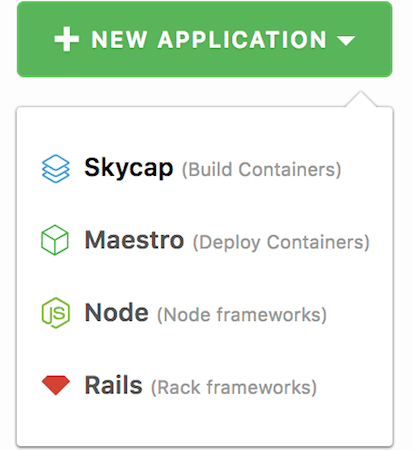
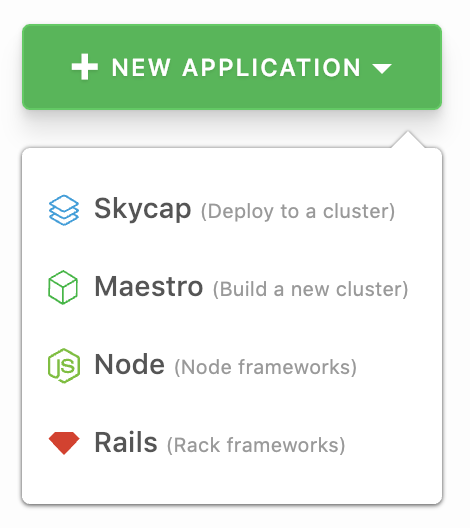
Product split changes

diff --git a/_skycap/quickstarts/using_formations.md b/_skycap/quickstarts/using_formations.md
@@ -20,7 +20,7 @@ Before you start, please check you have the following:
 <div class="notice"><p>
 In this guide we are using a <a href="https://github.com/cloud66-samples/helloworld">simple project</a> that we've supplied on Github. It's a good idea to use this project in your initial Skycap set up so that the steps below correspond to your application.</p></div>
 
-* **A Working Kubernetes Cluster** &mdash; You can use [Cloud 66 Maestro](/maestro/quickstarts/getting_started.html) to create a cluster or use a cloud provider service like [Google GKE](https://cloud.google.com/kubernetes-engine), [AWS Fargate](https://aws.amazon.com/fargate) or [Microsoft Azure AKS](https://azure.microsoft.com/en-us/services/container-service), or [set it up yourself](https://kubernetes.io/docs/getting-started-guides/scratch).
+* **A Working Kubernetes Cluster** &mdash; You can use [Cloud 66 Maestro](/maestro/quickstarts/getting_started_with_clusters.html) to create a blank cluster or use a cloud provider service like [Google GKE](https://cloud.google.com/kubernetes-engine), [AWS Fargate](https://aws.amazon.com/fargate) or [Microsoft Azure AKS](https://azure.microsoft.com/en-us/services/container-service), or [set it up yourself](https://kubernetes.io/docs/getting-started-guides/scratch).
 For this example we are going to use [Minikube](https://github.com/kubernetes/minikube)
         
 * **A `kubectl` client** on your development machine or a server that is configured to communicate with your Kubernetes cluster.
@@ -33,18 +33,17 @@ Before getting started, let's get ourselves familiar with 3 main concepts of the
 
 ### Formation
 
-Formation is a "deployment destination" for your application. This could be a dedicated Kubernetes cluster or a shared one. A Formation allows you to manage the collection of Kubernetes configuration templates or **Stencils** that define an application and its environment.
+A Formation is a "deployment destination" for your application. This could be a dedicated Kubernetes cluster or a shared one. A Formation allows you to manage the collection of Kubernetes configuration templates or **Stencils** that define an application and its environment.
 
 <div class="notice"><p>You can find more detailed information about Formations <a href="/skycap/the-basics/formations-stencils-and-snapshots.html#what-is-a-formation">here</a>.</p></div>
 
 ### Stencils
 
-A very good practice when configuring Kubernetes clusters is to put everything in configuration files rather than applying them directly via the command line. 
+A good practice when configuring Kubernetes clusters is to put everything in configuration files rather than applying changes directly via the command line. 
 
 Stencils are essentially dynamic Kubernetes configuration templates. They can contain one or many Kubernetes configuration items like `Services`, `Deployments`, `ConfigMaps` or others.
 
 Stencils can contain dynamic **placeholders** that are populated with the right values before they are applied to a Kubernetes cluster. This is called **Rendering** and it allows you to more easily re-use common templates.
-
 
 <div class="notice"><p>You can find more detailed information about Stencils <a href="/skycap/the-basics/formations-stencils-and-snapshots.html#what-is-a-stencil">here</a>.</p></div>
 
@@ -56,28 +55,15 @@ All of these components (including all configurations) are then stored in a priv
 
 <div class="notice"><p>You can find more detailed information about Snapshots <a href="/skycap/the-basics/formations-stencils-and-snapshots.html#what-is-a-snapshot">here</a>.</p></div>
 
-
 ## Getting Started
 
 ### Create your first Formation
 
-After the final step of [setting up an application](/skycap/quickstarts/getting_started.html) on Skycap, click the *Setup Deployment* button and select *Deploy with Formations*.
+After the final step of [setting up your application](/skycap/quickstarts/getting_started.html) on Skycap, click the *New Formation* button and give your Formation a name. 
 
-<img src="/assets/skycap/formation_step_1_NEW.gif"/>
+You can also add a few tags to it (these help to identify components later on). If you're using our sample project, calling your Formation "Hello World" is a good idea.
 
-#### Private Beta Notice
-
-<div class="notice"><p>If you can't see the selection form, you can contact Cloud 66 Support as Skycap Formation is currently a private beta feature. We will enable this feature for you.</p></div>
-
-Formations rely on "base templates" that are pulled from a git repository. Because your account doesn't have base template repository yet, you will need to add one now. We have supplied a set of [sample templates](https://github.com/cloud66/skycap-stencils/) on GitHub that you can use in this tutorial. 
-
-Click on the "New Formation" button and you will be promoted to add a template repo. You need to supply the git URL, the branch and a name for the template repo.
-
-<img alt="Template repo setup process" src="/assets/skycap/template_repo_ani.gif"/>
-
-Once your the template repo has been added, click on the *New Formation* button again. Enter a name for your Formation and add a few tags to it (these help to identify components later on). If you're using our sample project, calling your Formation "Hello World" is a good idea. Your Formation will automatically use the repo you connected in the previous step.
-
-<img src="/assets/skycap/formation_step_2_NEW.gif"/>
+<img src="/assets/skycap/skycap-new-formations-1.gif"/>
 
 ### Add your first Stencil
 
@@ -85,46 +71,28 @@ Once your the template repo has been added, click on the *New Formation* button 
 
 Now that you have a Formation defined you can begin populating it with **Stencils**. 
 
-To do this, click on the *Add Stencils* button in the "Getting Started with Formations" panel. 
+To do this, click on the *Add Stencils* button in the **Getting Started with Formations** panel. 
 
 A `namespace` is usually the first thing configured for a new Formation. To create yours, choose *setup.yml* from the menu that automatically opens on the next page.
 
-<img src="/assets/skycap/formation_step_3_NEW.gif"/>
+<img src="/assets/skycap/skycap-formations-add-stencil.gif"/>
 
 This creates a Stencil for a namespace configuration file for you. Let's look at it in a bit more detail:
 
 <pre class="prettyprint">
-# this sets up the cluster with namepsace etc
-# should be the first yaml to run
 apiVersion: v1
 kind: Namespace
 metadata:
   name: ${formation}
   annotations:
     cloud66.com/formation-uuid: ${formation["uuid"]}
-    cloud66.com/stencil-uuid: ${stencil["uuid"]}
----
-apiVersion: v1
-kind: Secret
-metadata:
-  namespace: ${formation}
-  name: cloud66-registry-pull-secret
-  annotations:
-    cloud66.com/formation-uuid: ${formation["uuid"]}
-    cloud66.com/stencil-uuid: ${stencil["uuid"]}
-data:
-  .dockerconfigjson: ${registry_credentials()}
-type: kubernetes.io/dockerconfigjson
 </pre>
 
+As you can see, the default `setup.yml` Stencil (from our sample repository) sets up the minimum required scaffolding for deploying an application to Kubernetes - a namespace.
 
-As you can see, the default `setup.yml` Stencil (from our sample repository) has two sections: the first sets up the namespace, and the second adds the credentials for a Docker repository to the namespace.
-
-You've probably already noticed the dynamic stencil placeholders like `${formation}`. These offer a simple way to replace some values in your configuration files at the time it "renders". 
+You've probably already noticed the dynamic stencil placeholder `${formation}`. Placeholder offer a simple way to replace some values in your configuration files at the time it "renders". 
 
 For example,`${formation}` gets replaced with a Kubernetes friendly version of your Formation's name. So if your Formation is called "My Sample Formation", the value of `${formation}` will be `my-sample-formation` when it renders (we will get to how to render the Stencils later).
-
-Looking at the `setup.yml` Stencil again, you see that the `${function(arguments)}` syntax is used in several places. For example `${formation("uuid")}` will be replaced by the unique identifier of the Formation that contains this Stencil and `${registry_credentials()}` will be replaced with docker registry credentials.
 
 You can see a full list of all Stencil functions [here](/skycap/references/stencil_placeholders.html).
 
@@ -192,15 +160,14 @@ Then, invoke the service using `minikube service` command, and a browser window 
 
 Congratulations! You just deployed your first Formation to a Kubernetes cluster.
 
-
 ## What's next?
 
 Formations are an extremely powerful tool to manage the flow of configuration files into Kubernetes. Here are some of their features:
 	
 * [Formations](/skycap/the-basics/formations-stencils-and-snapshots.html#what-is-a-formation) as an infrastucture time machine
-* Fine grained access control and permissions for each Formation and every Stencil for your team members
-* Ability to setup private [Base Templates](/skycap/the-basics/formations-stencils-and-snapshots.html#what-is-a-base-template) for your team
-* Powerful and very simple [Stencil placeholders syntax](/skycap/references/stencil_placeholders.html)
-* Bulk import of your environment variables and secrets into Stencils
+* Fine grained [access control and permissions](/skycap/tutorials/setting-up-access-control.html) for each Formation and every Stencil for your team members
+* The ability to setup private [Base Templates](/skycap/the-basics/formations-stencils-and-snapshots.html#what-is-a-base-template) for your team
+* The powerful [Stencil placeholders syntax](/skycap/references/stencil_placeholders.html)
+* Bulk import of your [environment variables](/skycap/tutorials/setting-environment-variables.html) and secrets into Stencils
 	
 

diff --git a/_maestro/quickstarts/getting_started.md b/_maestro/quickstarts/getting_started.md
@@ -25,33 +25,80 @@ Before you start, please check you have the following:
 </p></div>
 
 
-## Build your containers
+## Choosing application type
 
-This guide assumes that you already have container images that you want to deploy. If you need to learn how to build images or pull existing images from a repo please read <a href="/skycap/quickstarts/getting_started.html">Getting started with Skycap</a>. 
+New users will be show the product selection wizard. For Maestro, choose "I have a containerized application" and then "I need to build a Kubernetes cluster" (*Try Maestro*). 
 
-However we suggest you use a **different sample application** for Maestro than you did for Skycap (see the blue box above for details).
+<div class="Grid Grid--gutters Grid--full large-Grid--fit med-Grid--guttersXl">
+    <div class="Grid-cell">
+        <h4>Step 1</h4>
+        <img src="/assets/product_choice_1.png" alt="Product choice wizard - step 1">
+    </div>
+    <div class="Grid-cell">
+        <h4>Step 2</h4>
+        <img src="/assets/product_choice_2.png" alt="Product choice wizard - step 2">
+    </div>
+</div>
 
-## Set up your deployment
+If you're already using Cloud 66 just click *New Application &rarr; Maestro (Build a new cluster)* button on the dashboard.
 
-To get started with your deployment: 
+<img src="/assets/skycap/skycap_new_dropdown_update.png" alt="Start a new Skycap build pipeline" width="200">
 
-1. Open to your applications overview page and click *Set up a Deployment*. 
-2. Click on *Deploy with Maestro* in the Deployment Setup panel that appears:
-3. Choose any of the standard [application environments](/maestro/how-to-guides/deployment/application-environments.html)
+## Adding services
 
-<img alt="Setting up a deployment in Maestro" src="/assets/maestro/maestro-getting-started-1.gif">
+The first step is to give your application a **name**. This will be used to label your application throughout the Cloud 66 dashboard.
 
-## Configure your services
+Next, you need to add at least one **service**. To your application. If you're using our demo application, you will need to add a single service called `demo-app` by pulling the code from this [public repo](https://github.com/cloud66/maestro-demo.git).
+
+To do this: 
+
+1. Copy the *Clone or download* link from Github 
+2. Paste it into the **Git Repo URL** field
+3. Type *master* into the **branch** field
+4. Click *Go* to fetch and analyze the code
+
+<img src="/assets/maestro/maestro-adding-services.gif" alt="Adding services to a Maestro application">
+
+
+## Specifying the source of images
+
+<img src="/assets/skycap/skycap_service_image.png" alt="Specifying the source of your service" style="float:right; margin-top: 0.25em">
+
+The *Where is your service image?* dropdown provides you with three options to specify the source of your services.
+
+* **Build Image from a GitHub repo** &mdash; This is the easiest way to add services if your code is hosted on GitHub. You'll need to link your GitHub account with Cloud 66 before you can take advantage of this. Just click the *Setup access to your GitHub projects.* link. (This is the option you should pick if you're using our "hello world" app)
+    
+* **Build image from any Git Repo** &mdash; Use this option if you have a private git repo or you're using another git provider such as BitBucket. You can also use this if you don't want to link Cloud 66 to your GitHub account. You will need to add your Cloud 66 public key if your repo is private. You'll be prompted to do this if it's required.
+    
+* **It's in a Docker image repository** &mdash; Use this to add pre-built images to a project. You can use a service like DockerHub or your own private image repo. If you're using a private repository you'll be prompted to add the necessary login credentials. 
+
+
+## Building application images
+
+Before you can deploy your application, you need to build your services into container images. To do this, click the green *Build Application Images* button. 
+
+You can now watch the build log as Maestro fetches your application code and builds it into Docker images, ready for deployment.
+
+<img src="/assets/maestro/maestro-build-log.png" alt="Maestro image building log">
+
+
+## Preparing for deployment
+
+To start the deployment process click the *Set up a Deployment* button from the **Application Overview** page. You will then need to configure various aspects of the application to ensure it's deployed properly. This includes:
+
+* Network configuration
+* Data source(s)
+* Target server(s)
+
+### Container network configuration
 
 Our sample application is composed of a single Python service that we've named *demo-app*. This is a web app so we need to configure the service to handle web traffic.
 
 At the moment we can see that **0 services** are connected to the Internet. To change this we click on the plug icon to open the network setting panel.
 
-### Container network configuration
-
 The *demo-app* service will run inside a container, so we need to configure that container to respond to web traffic. A standard web server listens on port 80 for HTTP traffic, so we're going to use that as our *Public Internet Port*
 
-The *demo-app* service listens to port 5000 so we need set the *Container Port* to **5000** to the *Public Internet Port* to **80**:
+The *demo-app* service listens to port 5000 so we need set the *Container Port* to `5000` to the *Public Internet Port* to `80`:
 
 <img alt="Configuring container networking in Maestro" src="/assets/maestro/maestro-getting-started-2.gif">
 
@@ -67,7 +114,7 @@ The application also needs a redis data store, so we should add one now:
 
 Our application is now configured and ready to deploy.
 
-## Choose a cloud provider
+### Choose a cloud provider
 
 Now we need to choose a cloud provider as a target for the deployment. You can do this using the dropdowns in the right-hand column.
 
@@ -77,7 +124,7 @@ For this demo we'll use *DigitalOcean* and deploy the application to the *London
 
 You can also deploy to your own servers. First you need to <a href="/maestro/how-to-guides/deployment/registered-servers.html">add them as registered servers</a>.
 
-## Configure server size
+### Configure server size
 
 The server size can be set by clicking on the cog at the top right the server.
 

diff --git a/_skycap/quickstarts/getting_started.md b/_skycap/quickstarts/getting_started.md
@@ -32,30 +32,46 @@ Build pipelines are composed of all the individual ([containerized](/skycap/the-
 * **Pre-built Container Images** &mdash; These can be hosted in any public image repo like Dockerhub or your own private repo. 
 
 
-## Lets Get Started
+## Choosing application type
 
-New users should click *start trial* for the Skycap product. If you're already using Cloud 66 just click *New Application &rarr; Skycap (Build containers)* button on the dashboard.
+New users will be show the product selection wizard. For Skycap, choose "I have a containerized application" and then "I already have a Kubernetes cluster" (*Try Skycap*). 
 
 <div class="Grid Grid--gutters Grid--full large-Grid--fit med-Grid--guttersXl">
     <div class="Grid-cell">
-        <h4>New users</h4>
-        <img src="/assets/skycap/skycap_blankslate.png" alt="Your first Skycap build pipeline">
+        <h4>Step 1</h4>
+        <img src="/assets/product_choice_1.png" alt="Product choice wizard - step 1">
     </div>
     <div class="Grid-cell">
-        <h4>Existing users</h4>
-        <img src="/assets/skycap/skycap_new_dropdown_update.png" alt="Start a new Skycap build pipeline" width="170">
+        <h4>Step 2</h4>
+        <img src="/assets/product_choice_2.png" alt="Product choice wizard - step 2">
     </div>
 </div>
 
+If you're already using Cloud 66 just click *New Application &rarr; Skycap (Deploy to a cluster)* button on the dashboard.
+
+<img src="/assets/skycap/skycap_new_dropdown_update.png" alt="Start a new Skycap build pipeline" width="200">
+
 ## Adding Services
 
-* **Give your application a Name** &mdash; This will be used to label your application throughout the Cloud 66 dashboard.
-          
-* **Adding Services** &mdash; You can add as many services as required by clicking the green *+ Add Service* button at the bottom of the page.
+The first step is to give your application a **name**. This will be used to label your application throughout the Cloud 66 dashboard.
+
+Next, you need to add at least one **service**. To your application. If you're using our demo application, you will need to add a single service called "hello-world" by pulling the code from this [public repo](https://github.com/cloud66-samples/helloworld).
+
+To do this: 
+
+1. Copy the *Clone or download* link from Github 
+2. Paste it into the **Git Repo URL** field
+3. Type *master* into the **branch** field
+4. Click *Go* to fetch and analyze the code
 
 <img src="/assets/skycap/skycap_add_services_ani_update.gif" alt="Adding services to a Skycap build pipeline">
 
-## Specifying the source of your images
+
+You can add as many other services as required by clicking the green *+ Add Service* button at the bottom of the page. You will need to supply a source for each service you add (more info on this [below](#specifying-the-source-of-images)).
+
+Once you have added all your services, click the green *Next* button.
+
+## Specifying the source of images
 
 <img src="/assets/skycap/skycap_service_image.png" alt="Specifying the source of your service" style="float:right; margin-top: 0.25em">
 
@@ -67,9 +83,9 @@ The *Where is your service image?* dropdown provides you with three options to s
     
 * **It's in a Docker image repository** &mdash; Use this to add pre-built images to a project. You can use a service like DockerHub or your own private image repo. If you're using a private repository you'll be prompted to add the necessary login credentials. 
  
-Once you've finished adding your services click the "Create Snapshot" button.
-
 ## Snapshots and building images
+
+After you have added your services you will be taken to your **Application Overview** page. To start the build process you should click the green *Take Snapshot* button at the bottom of the main panel.
 
 A snapshot captures all the components of your application including application images, environment variables and configuration items, in preparation for deployment. 
 
@@ -84,16 +100,12 @@ During the build process you can view the status of each individual build. You c
 
 ## Deploying your application
 
-Once you've built your images, you're ready to deploy your app. There are two ways to do this:
-
-1. Using Maestro - Cloud 66's integrated container management service > [Get started with Maestro](/maestro/quickstarts/getting_started.html).
-
-2. Using your own (existing) Kubernetes cluster > [Get started with Skycap Formations](/skycap/quickstarts/using_formations.html)
+Once you've built your images, you're ready to deploy your application using Skycap's **Formations** feature. To do this, you should follow our guide: [Get started with Skycap Formations](/skycap/quickstarts/using_formations.html)
  
 ## What's next?
 
 Now that you have your first application defined, you can learn how to make that application live:
 
-* *Either* [create your first Formation](/skycap/quickstarts/using_formations.html) and use it to [deploy your application](/skycap/quickstarts/using_formations.html#deploying-it-all-to-your-cluster) to a Minikube cluster
+* [Create your first Formation](/skycap/quickstarts/using_formations.html) and use it to [deploy your application](/skycap/quickstarts/using_formations.html#deploying-it-all-to-your-cluster) to a Minikube cluster
 
-* *Or* get started with [Maestro](/maestro/quickstarts/getting_started.html), Cloud 66's full container management service, to deploy and manage your containers and infrastructure.
+* If you don't already have a cluster, consider using [Maestro](/maestro/quickstarts/getting_started.html), Cloud 66's full container management service, to deploy and manage your containers and infrastructure.

diff --git a/_node/quickstarts/getting_started.md b/_node/quickstarts/getting_started.md
@@ -28,9 +28,24 @@ permalink: /:collection/:path
 
 {% include general/cloud_provider_or_own_server_tabs.html %}
 
-<p>
-    Lets get started &mdash; Log into Cloud 66 website, if you're a new user you'll see four panels on your Apps Dashboard. In the Rails panel click the <strong>Start Trial</strong>.
-</p>
+## Choosing application type
+
+New users will be show the product selection wizard. For Skycap, choose "I have a native Ruby or Node app" and then "Deploy Rails & Rack Frameworks" (*Deploy a Ruby App*). 
+
+<div class="Grid Grid--gutters Grid--full large-Grid--fit med-Grid--guttersXl">
+    <div class="Grid-cell">
+        <h4>Step 1</h4>
+        <img src="/assets/product_choice_1.png" alt="Product choice wizard - step 1">
+    </div>
+    <div class="Grid-cell">
+        <h4>Step 2</h4>
+        <img src="/assets/product_choice_3.png" alt="Product choice wizard - step 2">
+    </div>
+</div>
+
+If you're already using Cloud 66 just click *New Application &rarr; Node (Node frameworks)* button on the dashboard.
+
+<img src="/assets/skycap/skycap_new_dropdown_update.png" alt="Start a new Skycap build pipeline" width="200">
 
 <h2 id="Access-your-Git-repository">
     <a href="#Access-your-Git-repository" class="headerlink" title="Access your Git repository"></a>

diff --git a/_rails/quickstarts/getting_started.md b/_rails/quickstarts/getting_started.md
@@ -26,7 +26,25 @@ permalink: /:collection/:path
 
 {% include general/cloud_provider_or_own_server_tabs.html %}
 
-Lets get started &mdash; Log into Cloud 66 website, if you're a new user you'll see four panels on your Apps Dashboard. In the Rails panel click the *Start Trial*.
+
+## Choosing application type
+
+New users will be show the product selection wizard. For Skycap, choose "I have a native Ruby or Node app" and then "Deploy Rails & Rack Frameworks" (*Deploy a Ruby App*). 
+
+<div class="Grid Grid--gutters Grid--full large-Grid--fit med-Grid--guttersXl">
+    <div class="Grid-cell">
+        <h4>Step 1</h4>
+        <img src="/assets/product_choice_1.png" alt="Product choice wizard - step 1">
+    </div>
+    <div class="Grid-cell">
+        <h4>Step 2</h4>
+        <img src="/assets/product_choice_3.png" alt="Product choice wizard - step 2">
+    </div>
+</div>
+
+If you're already using Cloud 66 just click *New Application &rarr; Rails (Rack frameworks)* button on the dashboard.
+
+<img src="/assets/skycap/skycap_new_dropdown_update.png" alt="Start a new Skycap build pipeline" width="200">
 
 ## Accessing your Git Repo
 
